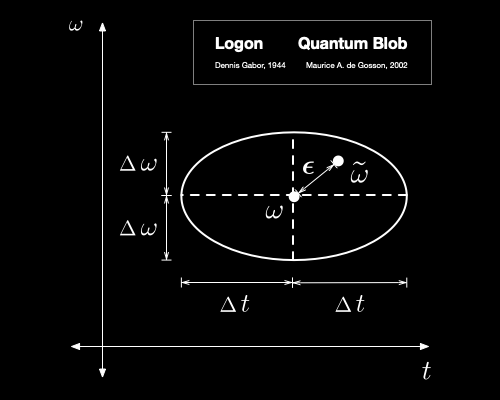
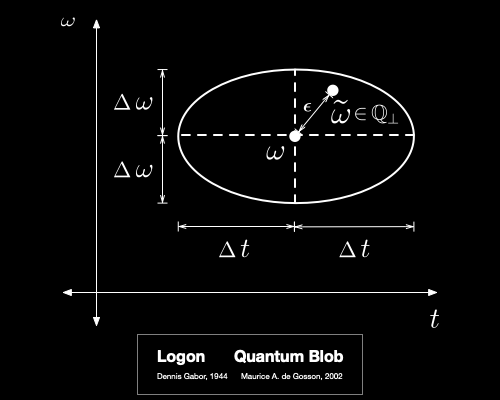
added Q_perp ;

diff --git a/README.md b/README.md
@@ -168,8 +168,11 @@ Thus, 2.2 is stretched a bit too far, and … (Sethares)
 ## Heisenberg Uncertainty
 
 $$
-\boxed{\Delta x \Delta p \ge \frac{\hbar}{2}, \quad p = \frac{h}{\lambda}}
+\boxed{\Delta x \Delta p \ge \frac{\hbar}{2}, \quad  \lambda = \frac{h}{p}}
 $$
+
+When de Broglie gave matter a wavelength, did he give us a pattern
+recognition problem?
 
 ## Gabor Uncertainty
 
@@ -180,8 +183,10 @@ $$
 ![](man/images/quantum_blob.png)
 
 *“Each of these areas, with its associated datum, represents, as it
-were, one elementary quantum of information, and it is proposed to call
-it a logon.” -Gabor, 1944*
+were, one **elementary quantum of information**, and it is proposed to
+call it a **logon**.” -Gabor, 1944*
+
+*“…phase-space is subdivided in **quantum blobs**…” -de Gasson, 2002*
 
 $$
 \boxed{\Delta t \Delta \omega \ge \frac{1}{2}}
@@ -192,7 +197,7 @@ $$
 ### Reference Time Period
 
 $$
-\Delta t = n T = n \frac{2 \pi }{\omega_{ref}}, \quad n \enspace \text{periods}
+\Delta t = n T_{ref} = n \frac{2 \pi }{\omega_{ref}}, \quad n \enspace \text{periods}
 $$
 
 $$
@@ -303,7 +308,7 @@ $$
 ### Stern–Brocot: Rational Fractions Lowest Terms
 
 $$
-a \perp b \quad \Longrightarrow \quad  \mathrm{gcd}(a,b)=1
+\mathrm{gcd}(a,b)=1 \quad \Longrightarrow \quad a \perp b \quad  \Longrightarrow \tilde f = \frac{a}{b} \in \mathbb{Q_\perp}
 $$
 
 ## Fundamental Frequency of a N-Tone Chord
